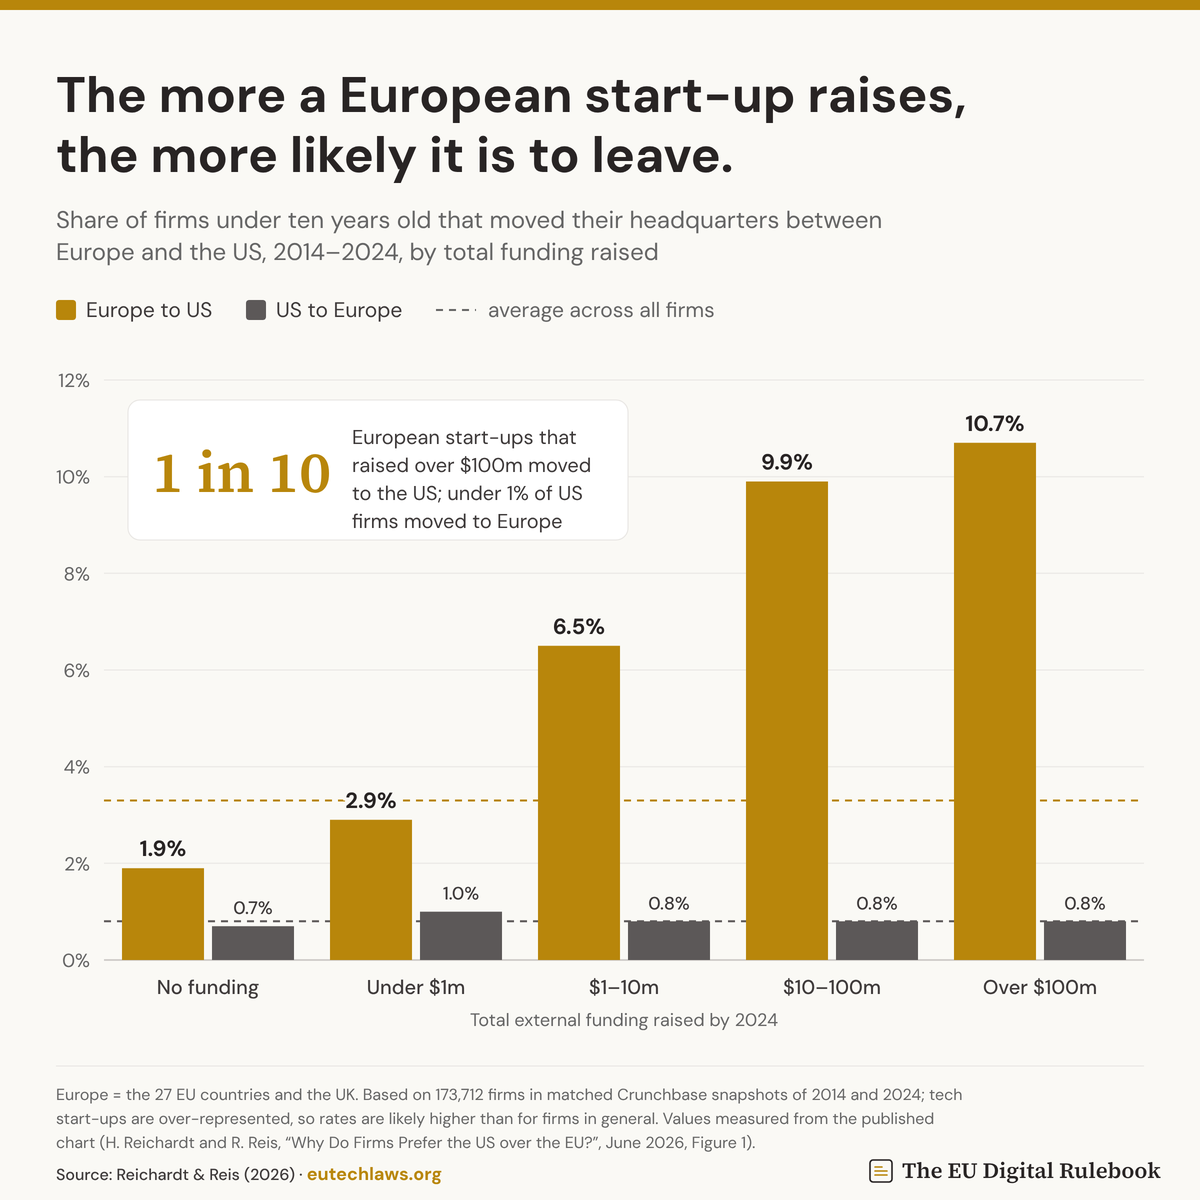
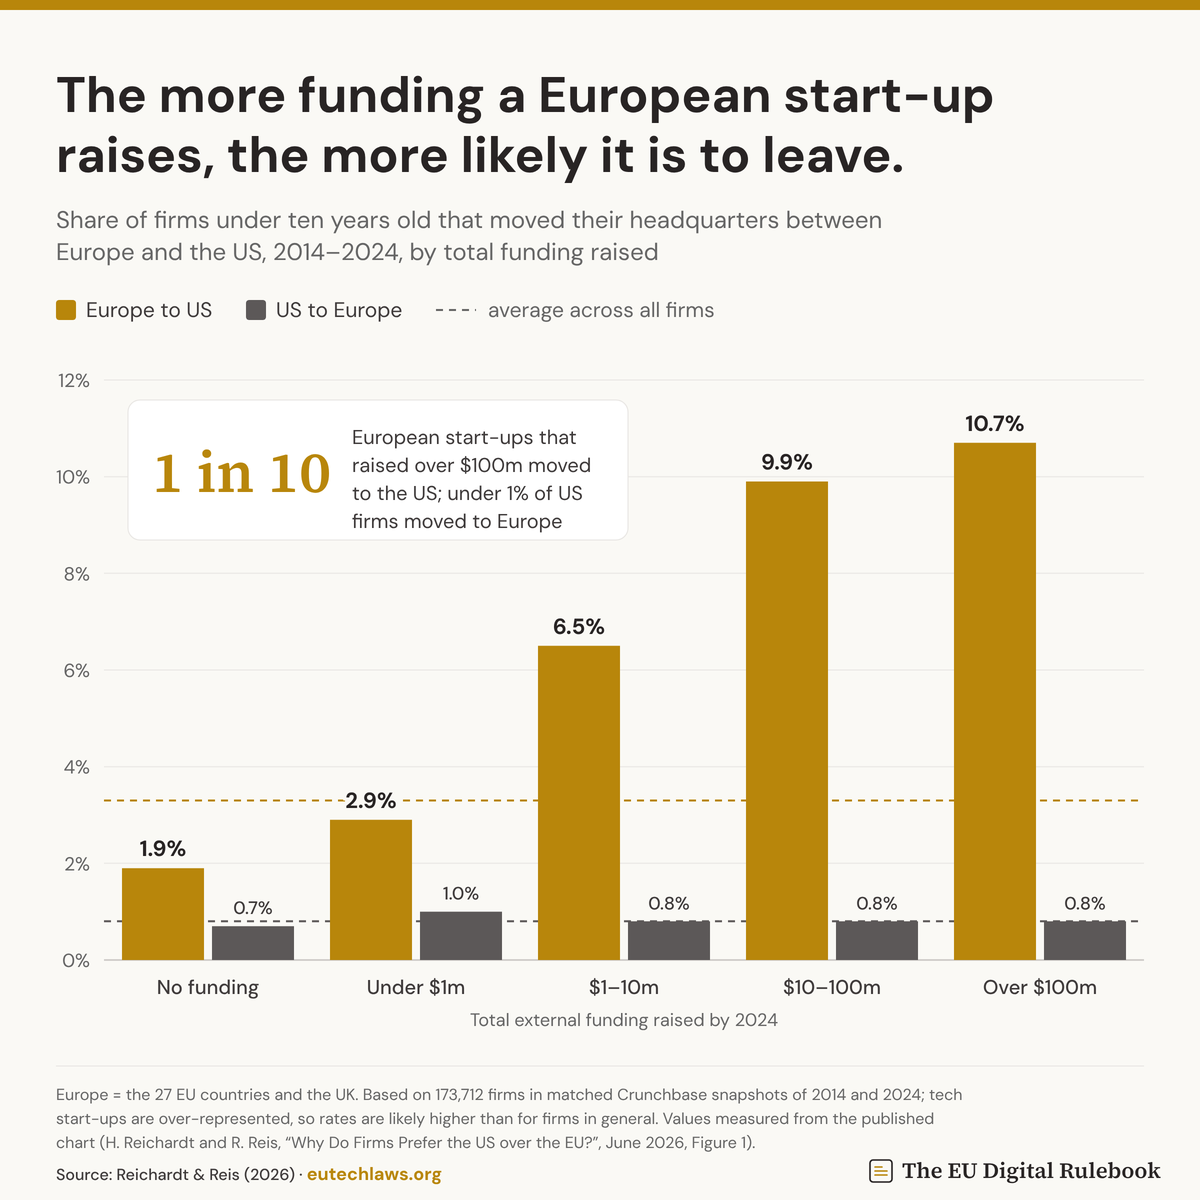
Start-ups infographic: new headline
Claude-Session: https://claude.ai/code/session_015jJNgYEity1n7oPe2my2VN

Changed region(s): [[0.0308, 0.0617, 0.8325, 0.1542]]

diff --git a/research/ceps_metrics/site/mockup/InfographicHq.dc.html b/research/ceps_metrics/site/mockup/InfographicHq.dc.html
@@ -13,7 +13,7 @@
 <style>body{margin:0;background:#FAF9F5}</style>
 </helmet>
 <div style="width: 100%; max-width: 1200px; margin: 0 auto; background: #FAF9F5">
-<svg xmlns="http://www.w3.org/2000/svg" viewBox="0 0 1200 1200" width="100%" role="img" aria-label="The more a European start-up raises, the more likely it is to leave. Share of firms under ten years old that moved their headquarters, 2014-2024: Europe to US 1.9% with no funding, 2.9% under $1m, 6.5% at $1-10m, 9.9% at $10-100m, 10.7% over $100m (average 3.3%); US to Europe 0.7% to 1.0% at every funding level (average 0.8%)."><rect width="1200" height="1200" fill="#FAF9F5"></rect><rect width="1200" height="10" fill="#B8860B"></rect><text x="56.0" y="112.0" text-anchor="start" font-family="DM Sans, sans-serif" font-size="50" font-weight="700" fill="#282424">The more a European start-up raises,</text><text x="56.0" y="172.0" text-anchor="start" font-family="DM Sans, sans-serif" font-size="50" font-weight="700" fill="#282424">the more likely it is to leave.</text><text x="56.0" y="228.0" text-anchor="start" font-family="DM Sans, sans-serif" font-size="24" font-weight="400" fill="#666666">Share of firms under ten years old that moved their headquarters between</text><text x="56.0" y="260.0" text-anchor="start" font-family="DM Sans, sans-serif" font-size="24" font-weight="400" fill="#666666">Europe and the US, 2014–2024, by total funding raised</text><rect x="56" y="300" width="20" height="20" rx="3" fill="#B8860B"></rect><text x="86.0" y="317.0" text-anchor="start" font-family="DM Sans, sans-serif" font-size="21" font-weight="400" fill="#3F3B3B">Europe to US</text><rect x="246" y="300" width="20" height="20" rx="3" fill="#5C5858"></rect><text x="276.0" y="317.0" text-anchor="start" font-family="DM Sans, sans-serif" font-size="21" font-weight="400" fill="#3F3B3B">US to Europe</text><line x1="436" x2="476" y1="310" y2="310" stroke="#666666" stroke-width="2" stroke-dasharray="7 6"></line><text x="488.0" y="317.0" text-anchor="start" font-family="DM Sans, sans-serif" font-size="21" font-weight="400" fill="#666666">average across all firms</text><line x1="104" x2="1144" y1="960.0" y2="960.0" stroke="#C9C6C3" stroke-width="1.6"></line><text x="90.0" y="967.0" text-anchor="end" font-family="DM Sans, sans-serif" font-size="19" font-weight="400" fill="#666666">0%</text><line x1="104" x2="1144" y1="863.3" y2="863.3" stroke="#E8E6E3" stroke-width="1"></line><text x="90.0" y="870.3" text-anchor="end" font-family="DM Sans, sans-serif" font-size="19" font-weight="400" fill="#666666">2%</text><line x1="104" x2="1144" y1="766.7" y2="766.7" stroke="#E8E6E3" stroke-width="1"></line><text x="90.0" y="773.7" text-anchor="end" font-family="DM Sans, sans-serif" font-size="19" font-weight="400" fill="#666666">4%</text><line x1="104" x2="1144" y1="670.0" y2="670.0" stroke="#E8E6E3" stroke-width="1"></line><text x="90.0" y="677.0" text-anchor="end" font-family="DM Sans, sans-serif" font-size="19" font-weight="400" fill="#666666">6%</text><line x1="104" x2="1144" y1="573.3" y2="573.3" stroke="#E8E6E3" stroke-width="1"></line><text x="90.0" y="580.3" text-anchor="end" font-family="DM Sans, sans-serif" font-size="19" font-weight="400" fill="#666666">8%</text><line x1="104" x2="1144" y1="476.7" y2="476.7" stroke="#E8E6E3" stroke-width="1"></line><text x="90.0" y="483.7" text-anchor="end" font-family="DM Sans, sans-serif" font-size="19" font-weight="400" fill="#666666">10%</text><line x1="104" x2="1144" y1="380.0" y2="380.0" stroke="#E8E6E3" stroke-width="1"></line><text x="90.0" y="387.0" text-anchor="end" font-family="DM Sans, sans-serif" font-size="19" font-weight="400" fill="#666666">12%</text><line x1="104" x2="1144" y1="800.5" y2="800.5" stroke="#B8860B" stroke-width="2" stroke-dasharray="7 6"></line><line x1="104" x2="1144" y1="921.3" y2="921.3" stroke="#5C5858" stroke-width="2" stroke-dasharray="7 6"></line><rect x="122.0" y="868.2" width="82" height="91.8" fill="#B8860B"></rect><text x="163.0" y="856.2" text-anchor="middle" font-family="DM Sans, sans-serif" font-size="22" font-weight="700" fill="#282424" stroke="#FAF9F5" stroke-width="6" paint-order="stroke">1.9%</text><rect x="212.0" y="926.2" width="82" height="33.8" fill="#5C5858"></rect><text x="253.0" y="914.2" text-anchor="middle" font-family="DM Sans, sans-serif" font-size="18" font-weight="500" fill="#3F3B3B" stroke="#FAF9F5" stroke-width="6" paint-order="stroke">0.7%</text><text x="208.0" y="994.0" text-anchor="middle" font-family="DM Sans, sans-serif" font-size="20" font-weight="500" fill="#3F3B3B">No funding</text><rect x="330.0" y="819.8" width="82" height="140.2" fill="#B8860B"></rect><text x="371.0" y="807.8" text-anchor="middle" font-family="DM Sans, sans-serif" font-size="22" font-weight="700" fill="#282424" stroke="#FAF9F5" stroke-width="6" paint-order="stroke">2.9%</text><rect x="420.0" y="911.7" width="82" height="48.3" fill="#5C5858"></rect><text x="461.0" y="899.7" text-anchor="middle" font-family="DM Sans, sans-serif" font-size="18" font-weight="500" fill="#3F3B3B" stroke="#FAF9F5" stroke-width="6" paint-order="stroke">1.0%</text><text x="416.0" y="994.0" text-anchor="middle" font-family="DM Sans, sans-serif" font-size="20" font-weight="500" fill="#3F3B3B">Under $1m</text><rect x="538.0" y="645.8" width="82" height="314.2" fill="#B8860B"></rect><text x="579.0" y="633.8" text-anchor="middle" font-family="DM Sans, sans-serif" font-size="22" font-weight="700" fill="#282424" stroke="#FAF9F5" stroke-width="6" paint-order="stroke">6.5%</text><rect x="628.0" y="921.3" width="82" height="38.7" fill="#5C5858"></rect><text x="669.0" y="909.3" text-anchor="middle" font-family="DM Sans, sans-serif" font-size="18" font-weight="500" fill="#3F3B3B" stroke="#FAF9F5" stroke-width="6" paint-order="stroke">0.8%</text><text x="624.0" y="994.0" text-anchor="middle" font-family="DM Sans, sans-serif" font-size="20" font-weight="500" fill="#3F3B3B">$1–10m</text><rect x="746.0" y="481.5" width="82" height="478.5" fill="#B8860B"></rect><text x="787.0" y="469.5" text-anchor="middle" font-family="DM Sans, sans-serif" font-size="22" font-weight="700" fill="#282424" stroke="#FAF9F5" stroke-width="6" paint-order="stroke">9.9%</text><rect x="836.0" y="921.3" width="82" height="38.7" fill="#5C5858"></rect><text x="877.0" y="909.3" text-anchor="middle" font-family="DM Sans, sans-serif" font-size="18" font-weight="500" fill="#3F3B3B" stroke="#FAF9F5" stroke-width="6" paint-order="stroke">0.8%</text><text x="832.0" y="994.0" text-anchor="middle" font-family="DM Sans, sans-serif" font-size="20" font-weight="500" fill="#3F3B3B">$10–100m</text><rect x="954.0" y="442.8" width="82" height="517.2" fill="#B8860B"></rect><text x="995.0" y="430.8" text-anchor="middle" font-family="DM Sans, sans-serif" font-size="22" font-weight="700" fill="#282424" stroke="#FAF9F5" stroke-width="6" paint-order="stroke">10.7%</text><rect x="1044.0" y="921.3" width="82" height="38.7" fill="#5C5858"></rect><text x="1085.0" y="909.3" text-anchor="middle" font-family="DM Sans, sans-serif" font-size="18" font-weight="500" fill="#3F3B3B" stroke="#FAF9F5" stroke-width="6" paint-order="stroke">0.8%</text><text x="1040.0" y="994.0" text-anchor="middle" font-family="DM Sans, sans-serif" font-size="20" font-weight="500" fill="#3F3B3B">Over $100m</text><text x="624.0" y="1026.0" text-anchor="middle" font-family="DM Sans, sans-serif" font-size="18" font-weight="400" fill="#666666">Total external funding raised by 2024</text><rect x="128" y="400" width="500" height="140" rx="12" fill="#FFFFFF" stroke="#E8E6E3"></rect><text x="152.0" y="492.0" text-anchor="start" font-family="'Source Serif 4', Georgia, serif" font-size="58" font-weight="700" fill="#B8860B">1 in 10</text><text x="352.0" y="444.0" text-anchor="start" font-family="DM Sans, sans-serif" font-size="20" font-weight="400" fill="#3F3B3B">European start-ups that</text><text x="352.0" y="472.0" text-anchor="start" font-family="DM Sans, sans-serif" font-size="20" font-weight="400" fill="#3F3B3B">raised over $100m moved</text><text x="352.0" y="500.0" text-anchor="start" font-family="DM Sans, sans-serif" font-size="20" font-weight="400" fill="#3F3B3B">to the US; under 1% of US</text><text x="352.0" y="528.0" text-anchor="start" font-family="DM Sans, sans-serif" font-size="20" font-weight="400" fill="#3F3B3B">firms moved to Europe</text><line x1="56" x2="1144" y1="1066" y2="1066" stroke="#E8E6E3"></line><text x="56.0" y="1100.0" text-anchor="start" font-family="DM Sans, sans-serif" font-size="16" font-weight="400" fill="#666666">Europe = the 27 EU countries and the UK. Based on 173,712 firms in matched Crunchbase snapshots of 2014 and 2024; tech</text><text x="56.0" y="1124.0" text-anchor="start" font-family="DM Sans, sans-serif" font-size="16" font-weight="400" fill="#666666">start-ups are over-represented, so rates are likely higher than for firms in general. Values measured from the published</text><text x="56.0" y="1148.0" text-anchor="start" font-family="DM Sans, sans-serif" font-size="16" font-weight="400" fill="#666666">chart (H. Reichardt and R. Reis, “Why Do Firms Prefer the US over the EU?”, June 2026, Figure 1).</text><g transform="translate(870,1160)"><rect x="0" y="0" width="22" height="22" rx="3" fill="none" stroke="#282424" stroke-width="1.6"></rect><path d="M5 15h12M5 11h12M5 7h7" stroke="#B8860B" stroke-width="1.6" stroke-linecap="round"></path></g><text x="902.0" y="1178.0" text-anchor="start" font-family="'Source Serif 4', Georgia, serif" font-size="22" font-weight="400" fill="#282424">The EU Digital Rulebook</text><text x="56.0" y="1180.0" text-anchor="start" font-family="DM Sans, sans-serif" font-size="16" font-weight="500" fill="#3F3B3B">Source: Reichardt &amp; Reis (2026) · <tspan fill="#B8860B" font-weight="700" font-size="18">eutechlaws.org</tspan></text></svg>
+<svg xmlns="http://www.w3.org/2000/svg" viewBox="0 0 1200 1200" width="100%" role="img" aria-label="The more funding a European start-up raises, the more likely it is to leave. Share of firms under ten years old that moved their headquarters, 2014-2024: Europe to US 1.9% with no funding, 2.9% under $1m, 6.5% at $1-10m, 9.9% at $10-100m, 10.7% over $100m (average 3.3%); US to Europe 0.7% to 1.0% at every funding level (average 0.8%)."><rect width="1200" height="1200" fill="#FAF9F5"></rect><rect width="1200" height="10" fill="#B8860B"></rect><text x="56.0" y="112.0" text-anchor="start" font-family="DM Sans, sans-serif" font-size="50" font-weight="700" fill="#282424">The more funding a European start-up</text><text x="56.0" y="172.0" text-anchor="start" font-family="DM Sans, sans-serif" font-size="50" font-weight="700" fill="#282424">raises, the more likely it is to leave.</text><text x="56.0" y="228.0" text-anchor="start" font-family="DM Sans, sans-serif" font-size="24" font-weight="400" fill="#666666">Share of firms under ten years old that moved their headquarters between</text><text x="56.0" y="260.0" text-anchor="start" font-family="DM Sans, sans-serif" font-size="24" font-weight="400" fill="#666666">Europe and the US, 2014–2024, by total funding raised</text><rect x="56" y="300" width="20" height="20" rx="3" fill="#B8860B"></rect><text x="86.0" y="317.0" text-anchor="start" font-family="DM Sans, sans-serif" font-size="21" font-weight="400" fill="#3F3B3B">Europe to US</text><rect x="246" y="300" width="20" height="20" rx="3" fill="#5C5858"></rect><text x="276.0" y="317.0" text-anchor="start" font-family="DM Sans, sans-serif" font-size="21" font-weight="400" fill="#3F3B3B">US to Europe</text><line x1="436" x2="476" y1="310" y2="310" stroke="#666666" stroke-width="2" stroke-dasharray="7 6"></line><text x="488.0" y="317.0" text-anchor="start" font-family="DM Sans, sans-serif" font-size="21" font-weight="400" fill="#666666">average across all firms</text><line x1="104" x2="1144" y1="960.0" y2="960.0" stroke="#C9C6C3" stroke-width="1.6"></line><text x="90.0" y="967.0" text-anchor="end" font-family="DM Sans, sans-serif" font-size="19" font-weight="400" fill="#666666">0%</text><line x1="104" x2="1144" y1="863.3" y2="863.3" stroke="#E8E6E3" stroke-width="1"></line><text x="90.0" y="870.3" text-anchor="end" font-family="DM Sans, sans-serif" font-size="19" font-weight="400" fill="#666666">2%</text><line x1="104" x2="1144" y1="766.7" y2="766.7" stroke="#E8E6E3" stroke-width="1"></line><text x="90.0" y="773.7" text-anchor="end" font-family="DM Sans, sans-serif" font-size="19" font-weight="400" fill="#666666">4%</text><line x1="104" x2="1144" y1="670.0" y2="670.0" stroke="#E8E6E3" stroke-width="1"></line><text x="90.0" y="677.0" text-anchor="end" font-family="DM Sans, sans-serif" font-size="19" font-weight="400" fill="#666666">6%</text><line x1="104" x2="1144" y1="573.3" y2="573.3" stroke="#E8E6E3" stroke-width="1"></line><text x="90.0" y="580.3" text-anchor="end" font-family="DM Sans, sans-serif" font-size="19" font-weight="400" fill="#666666">8%</text><line x1="104" x2="1144" y1="476.7" y2="476.7" stroke="#E8E6E3" stroke-width="1"></line><text x="90.0" y="483.7" text-anchor="end" font-family="DM Sans, sans-serif" font-size="19" font-weight="400" fill="#666666">10%</text><line x1="104" x2="1144" y1="380.0" y2="380.0" stroke="#E8E6E3" stroke-width="1"></line><text x="90.0" y="387.0" text-anchor="end" font-family="DM Sans, sans-serif" font-size="19" font-weight="400" fill="#666666">12%</text><line x1="104" x2="1144" y1="800.5" y2="800.5" stroke="#B8860B" stroke-width="2" stroke-dasharray="7 6"></line><line x1="104" x2="1144" y1="921.3" y2="921.3" stroke="#5C5858" stroke-width="2" stroke-dasharray="7 6"></line><rect x="122.0" y="868.2" width="82" height="91.8" fill="#B8860B"></rect><text x="163.0" y="856.2" text-anchor="middle" font-family="DM Sans, sans-serif" font-size="22" font-weight="700" fill="#282424" stroke="#FAF9F5" stroke-width="6" paint-order="stroke">1.9%</text><rect x="212.0" y="926.2" width="82" height="33.8" fill="#5C5858"></rect><text x="253.0" y="914.2" text-anchor="middle" font-family="DM Sans, sans-serif" font-size="18" font-weight="500" fill="#3F3B3B" stroke="#FAF9F5" stroke-width="6" paint-order="stroke">0.7%</text><text x="208.0" y="994.0" text-anchor="middle" font-family="DM Sans, sans-serif" font-size="20" font-weight="500" fill="#3F3B3B">No funding</text><rect x="330.0" y="819.8" width="82" height="140.2" fill="#B8860B"></rect><text x="371.0" y="807.8" text-anchor="middle" font-family="DM Sans, sans-serif" font-size="22" font-weight="700" fill="#282424" stroke="#FAF9F5" stroke-width="6" paint-order="stroke">2.9%</text><rect x="420.0" y="911.7" width="82" height="48.3" fill="#5C5858"></rect><text x="461.0" y="899.7" text-anchor="middle" font-family="DM Sans, sans-serif" font-size="18" font-weight="500" fill="#3F3B3B" stroke="#FAF9F5" stroke-width="6" paint-order="stroke">1.0%</text><text x="416.0" y="994.0" text-anchor="middle" font-family="DM Sans, sans-serif" font-size="20" font-weight="500" fill="#3F3B3B">Under $1m</text><rect x="538.0" y="645.8" width="82" height="314.2" fill="#B8860B"></rect><text x="579.0" y="633.8" text-anchor="middle" font-family="DM Sans, sans-serif" font-size="22" font-weight="700" fill="#282424" stroke="#FAF9F5" stroke-width="6" paint-order="stroke">6.5%</text><rect x="628.0" y="921.3" width="82" height="38.7" fill="#5C5858"></rect><text x="669.0" y="909.3" text-anchor="middle" font-family="DM Sans, sans-serif" font-size="18" font-weight="500" fill="#3F3B3B" stroke="#FAF9F5" stroke-width="6" paint-order="stroke">0.8%</text><text x="624.0" y="994.0" text-anchor="middle" font-family="DM Sans, sans-serif" font-size="20" font-weight="500" fill="#3F3B3B">$1–10m</text><rect x="746.0" y="481.5" width="82" height="478.5" fill="#B8860B"></rect><text x="787.0" y="469.5" text-anchor="middle" font-family="DM Sans, sans-serif" font-size="22" font-weight="700" fill="#282424" stroke="#FAF9F5" stroke-width="6" paint-order="stroke">9.9%</text><rect x="836.0" y="921.3" width="82" height="38.7" fill="#5C5858"></rect><text x="877.0" y="909.3" text-anchor="middle" font-family="DM Sans, sans-serif" font-size="18" font-weight="500" fill="#3F3B3B" stroke="#FAF9F5" stroke-width="6" paint-order="stroke">0.8%</text><text x="832.0" y="994.0" text-anchor="middle" font-family="DM Sans, sans-serif" font-size="20" font-weight="500" fill="#3F3B3B">$10–100m</text><rect x="954.0" y="442.8" width="82" height="517.2" fill="#B8860B"></rect><text x="995.0" y="430.8" text-anchor="middle" font-family="DM Sans, sans-serif" font-size="22" font-weight="700" fill="#282424" stroke="#FAF9F5" stroke-width="6" paint-order="stroke">10.7%</text><rect x="1044.0" y="921.3" width="82" height="38.7" fill="#5C5858"></rect><text x="1085.0" y="909.3" text-anchor="middle" font-family="DM Sans, sans-serif" font-size="18" font-weight="500" fill="#3F3B3B" stroke="#FAF9F5" stroke-width="6" paint-order="stroke">0.8%</text><text x="1040.0" y="994.0" text-anchor="middle" font-family="DM Sans, sans-serif" font-size="20" font-weight="500" fill="#3F3B3B">Over $100m</text><text x="624.0" y="1026.0" text-anchor="middle" font-family="DM Sans, sans-serif" font-size="18" font-weight="400" fill="#666666">Total external funding raised by 2024</text><rect x="128" y="400" width="500" height="140" rx="12" fill="#FFFFFF" stroke="#E8E6E3"></rect><text x="152.0" y="492.0" text-anchor="start" font-family="'Source Serif 4', Georgia, serif" font-size="58" font-weight="700" fill="#B8860B">1 in 10</text><text x="352.0" y="444.0" text-anchor="start" font-family="DM Sans, sans-serif" font-size="20" font-weight="400" fill="#3F3B3B">European start-ups that</text><text x="352.0" y="472.0" text-anchor="start" font-family="DM Sans, sans-serif" font-size="20" font-weight="400" fill="#3F3B3B">raised over $100m moved</text><text x="352.0" y="500.0" text-anchor="start" font-family="DM Sans, sans-serif" font-size="20" font-weight="400" fill="#3F3B3B">to the US; under 1% of US</text><text x="352.0" y="528.0" text-anchor="start" font-family="DM Sans, sans-serif" font-size="20" font-weight="400" fill="#3F3B3B">firms moved to Europe</text><line x1="56" x2="1144" y1="1066" y2="1066" stroke="#E8E6E3"></line><text x="56.0" y="1100.0" text-anchor="start" font-family="DM Sans, sans-serif" font-size="16" font-weight="400" fill="#666666">Europe = the 27 EU countries and the UK. Based on 173,712 firms in matched Crunchbase snapshots of 2014 and 2024; tech</text><text x="56.0" y="1124.0" text-anchor="start" font-family="DM Sans, sans-serif" font-size="16" font-weight="400" fill="#666666">start-ups are over-represented, so rates are likely higher than for firms in general. Values measured from the published</text><text x="56.0" y="1148.0" text-anchor="start" font-family="DM Sans, sans-serif" font-size="16" font-weight="400" fill="#666666">chart (H. Reichardt and R. Reis, “Why Do Firms Prefer the US over the EU?”, June 2026, Figure 1).</text><g transform="translate(870,1160)"><rect x="0" y="0" width="22" height="22" rx="3" fill="none" stroke="#282424" stroke-width="1.6"></rect><path d="M5 15h12M5 11h12M5 7h7" stroke="#B8860B" stroke-width="1.6" stroke-linecap="round"></path></g><text x="902.0" y="1178.0" text-anchor="start" font-family="'Source Serif 4', Georgia, serif" font-size="22" font-weight="400" fill="#282424">The EU Digital Rulebook</text><text x="56.0" y="1180.0" text-anchor="start" font-family="DM Sans, sans-serif" font-size="16" font-weight="500" fill="#3F3B3B">Source: Reichardt &amp; Reis (2026) · <tspan fill="#B8860B" font-weight="700" font-size="18">eutechlaws.org</tspan></text></svg>
 </div>
 </x-dc>
 <script type="text/x-dc" data-dc-script data-props='{"$preview":{"width":1200,"height":1200}}'>

diff --git a/research/ceps_metrics/site/mockup/Infographics.dc.html b/research/ceps_metrics/site/mockup/Infographics.dc.html
@@ -101,7 +101,7 @@ a{color:#282424}a:hover{color:#8F6708}
 </x-dc>
 <script type="text/x-dc" data-dc-script data-props='{"$preview":{"width":1440,"height":1700}}'>
 const IG = [
-  { title: "The more a European start-up raises, the more likely it is to leave.", thumb: "/_blob/5b423c3646f6d32f1d936ac8468ed2cb", full: "/_blob/02f055001ff08f939f0c29f218e4e03c", file: "eutechlaws_startups_leaving.png" },
+  { title: "The more funding a European start-up raises, the more likely it is to leave.", thumb: "/_blob/6ed0fcad3eb344473634dddd6183bc19", full: "/_blob/833cb7b77a90e4b9a4263f285101f429", file: "eutechlaws_startups_leaving.png" },
   { title: "Europe used to be poorer because it worked less. Now it is poorer because each hour produces less.", thumb: "/_blob/3605da905a286d2bf58e256b9c649528", full: "/_blob/6a98240052e9aedf7844fda5d9ffc7fb", file: "eutechlaws_productivity_gap.png" },
   { title: "The AI Act carries three times as many obligations as Sarbanes-Oxley", thumb: "/_blob/f27d5fcf53e50e446c4635d5af52a622", full: "/_blob/4b7a6147a62abaed40a03fbbf10e2193", file: "eutechlaws_ai_act_vs_sox.png" },
   { title: "More than half of EU digital laws were adopted since 2020", thumb: "/_blob/388f13f7a5dafe8c6c02e9d6b152a8c5", full: "/_blob/358e4b82eca8a536204a65a97a364107", file: "eutechlaws_policy_areas.png" },

diff --git a/research/ceps_metrics/site/build_infographic_hq.py b/research/ceps_metrics/site/build_infographic_hq.py
@@ -19,7 +19,7 @@ hq = [("No funding", 1.9, 0.7), ("Under $1m", 2.9, 1.0), ("$1–10m", 6.5, 0.8),
 avg_eu, avg_us = 3.3, 0.8
 
 g = [f'<rect width="{W}" height="{H}" fill="{BG}"></rect>', f'<rect width="{W}" height="10" fill="{GOLD}"></rect>']
-for i, line in enumerate(("The more a European start-up raises,", "the more likely it is to leave.")):
+for i, line in enumerate(("The more funding a European start-up", "raises, the more likely it is to leave.")):
     g.append(t(56, 112 + 60 * i, line, 50, INK, weight=700))
 g.append(t(56, 228, "Share of firms under ten years old that moved their headquarters between", 24, MUTED))
 g.append(t(56, 260, "Europe and the US, 2014–2024, by total funding raised", 24, MUTED))
@@ -62,7 +62,7 @@ g.append(f'<g transform="translate({W - 330},1160)"><rect x="0" y="0" width="22"
 g.append(t(W - 298, 1178, "The EU Digital Rulebook", 22, INK, font=SERIF))
 g.append(t(56, 1180, f'Source: Reichardt &amp; Reis (2026) · <tspan fill="{GOLD}" font-weight="700" font-size="18">eutechlaws.org</tspan>', 16, INK2, weight=500))
 
-aria = ("The more a European start-up raises, the more likely it is to leave. Share of firms under ten years old that moved their headquarters, 2014-2024: "
+aria = ("The more funding a European start-up raises, the more likely it is to leave. Share of firms under ten years old that moved their headquarters, 2014-2024: "
         "Europe to US 1.9% with no funding, 2.9% under $1m, 6.5% at $1-10m, 9.9% at $10-100m, 10.7% over $100m (average 3.3%); "
         "US to Europe 0.7% to 1.0% at every funding level (average 0.8%).")
 svg = f'<svg xmlns="http://www.w3.org/2000/svg" viewBox="0 0 {W} {H}" width="100%" role="img" aria-label="{aria}">' + "".join(g) + "</svg>"
